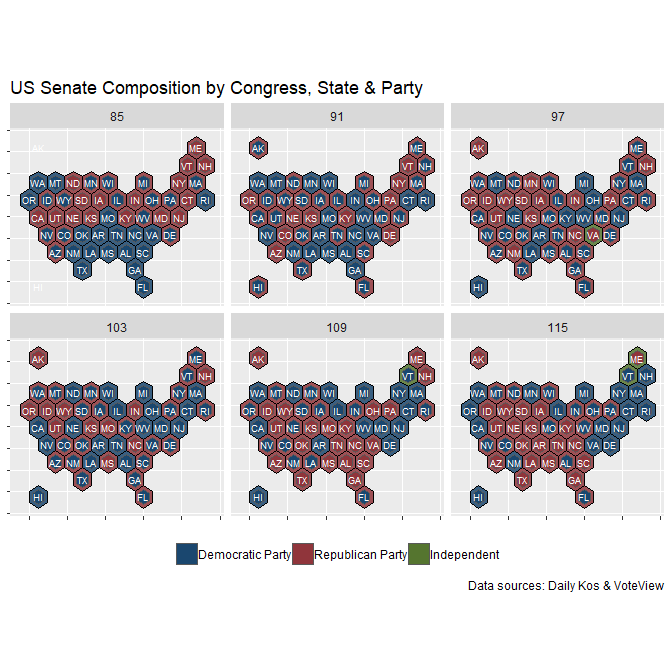
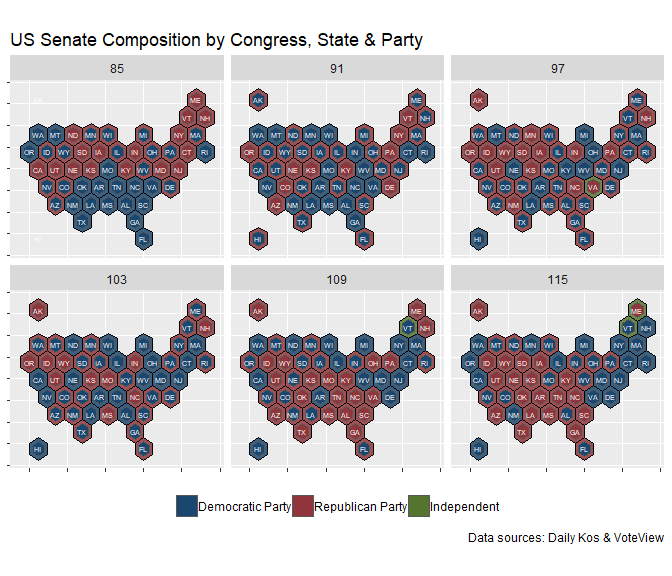
re

diff --git a/README.md b/README.md
@@ -152,12 +152,12 @@ rvoteview_house_50 %>%
   geom_area(alpha = 0.85, color = 'gray') +
   ggthemes::scale_fill_stata()+
   geom_hline(yintercept = 0.5, color = 'white', linetype = 2) +
-  annotate("text", x = 70, y = .9, label = "Democrat", 
+  annotate("text", x = 73, y = .9, label = "Democrat", 
            color = 'white',
-           size = 5) +
-  annotate("text", x = 70, y = .1, label = "Republican", 
+           size = 4) +
+  annotate("text", x = 73, y = .1, label = "Republican", 
            color = 'white',
-           size = 5) +
+           size = 4) +
   theme(legend.position = "none")+
   labs(title = "House Composition over the last 50 congresses",
        caption = 'Data source: VoteView')
@@ -607,7 +607,7 @@ dailykos_tile$outer %>%
           aes(fill = party_name)) +
   ggsflabel::geom_sf_text(data = dailykos_tile$inner,
                           aes(label = State), 
-                          size = 2.5,
+                          size = 1.75,
                           color = 'white') +
   ggthemes::scale_fill_stata()+
   theme(axis.title.x=element_blank(),
